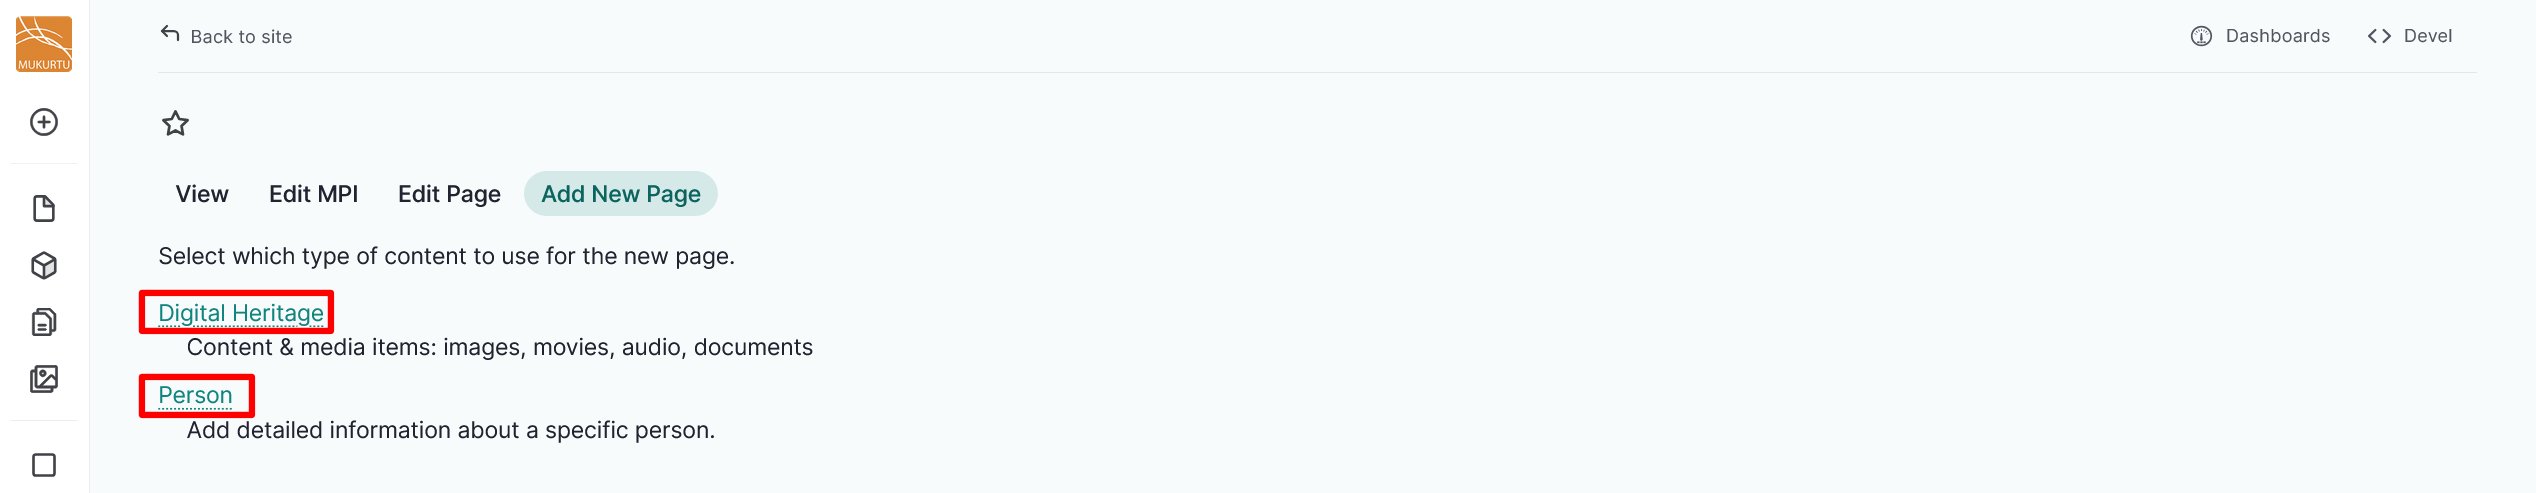
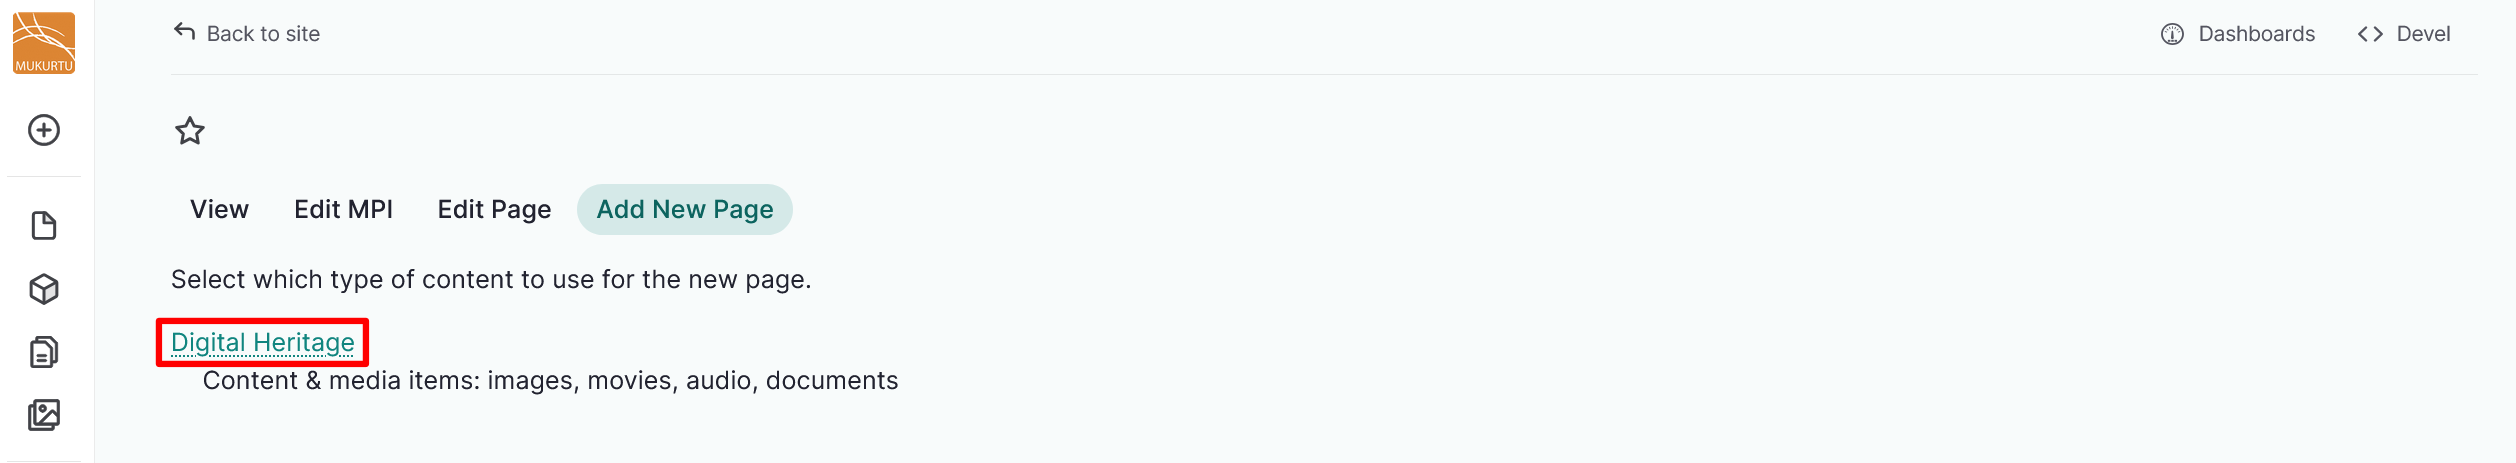
Multipage items
Removed references to person records.

diff --git a/docs/digital-heritage-items/MultipageItems.md b/docs/digital-heritage-items/MultipageItems.md
@@ -1,7 +1,6 @@
 ---
 tags:
     - digital heritage item
-    - person record
     - content
 ---
 # Multipage Items
@@ -9,13 +8,11 @@ tags:
 !!! roles "User roles" 
     Protocol steward, contributor
 
-Multipage items are additions to digital heritage items and person records that allow multiple pages with unique metadata to be added to content. The pages can be navigated and browsed within the same digital heritage item or person record. This allows for granular page-level description, which makes individual pages discoverable in site-wide search.  
+Multipage items are additions to digital heritage items that allow multiple pages with unique metadata to be added to content. The pages can be navigated and browsed within the same digital heritage item. This allows for granular page-level description, which makes individual pages discoverable in site-wide search.  
 
-Please note that all pages appear individually on the browse pages. While there are ways to work with this, some users find the display of multiple pages to add unwanted visual bulk. If you do not need unique page-level metadata and prefer to avoid visual clutter on your browse pages, consider adding each page as a separate media asset within a single digital heritage item or person record instead.
+Please note that all pages appear individually on the browse pages. While there are ways to work with this, some users find the display of multiple pages to add unwanted visual bulk. If you do not need unique page-level metadata and prefer to avoid visual clutter on your browse pages, consider adding each page as a separate media asset within a single digital heritage item instead.
 
 ## Create a multipage item
-
-You can create a multipage item from both digital heritage items and person records. This article will reference creating a multipage item from a digital heritage item, but the process is the same for both content types.
 
 1. From an existing digital heritage item, select the "Create Multipage Item" button in the toolbar below the item or record's title. 
 
@@ -42,7 +39,7 @@ To begin adding new pages, select your multipage item.
 
 ### Add existing content
 
-You can add existing digital heritage items or person records to multipage items.
+You can add existing digital heritage items to multipage items.
 
 1. Select the "Edit MPI" button. 
 
@@ -64,14 +61,13 @@ You can add existing digital heritage items or person records to multipage items
 
     ![Screenshot of a page of the multipage item with the edit button highlighted.](../_embeds/multipage7.png)
 
-2. New pages are created as additional digital heritage items or person records. Select which type of content to use for your new page.
+2. New pages are created as additional digital heritage items. Select which type of content to use for your new page.
 
     ![Screenshot of the content selection form for adding new pages with the digital heritage and person links both highlighted.](../_embeds/multipage10.png)
 
     For more information on creating digital heritage items, visit [Create a Digital Heritage Item](CreateDHItem.md).
-    For more information on creating person records, refer to [Create Person Records](../person-records/PersonRecords.md)
 
-3. When your new item or record is complete, select the "Save" button. 
+3. When your new item is complete, select the "Save" button. 
 
     ![Screenshot of the new digital heritage item with the save button highlighted.](../_embeds/multipage11.png)
 
